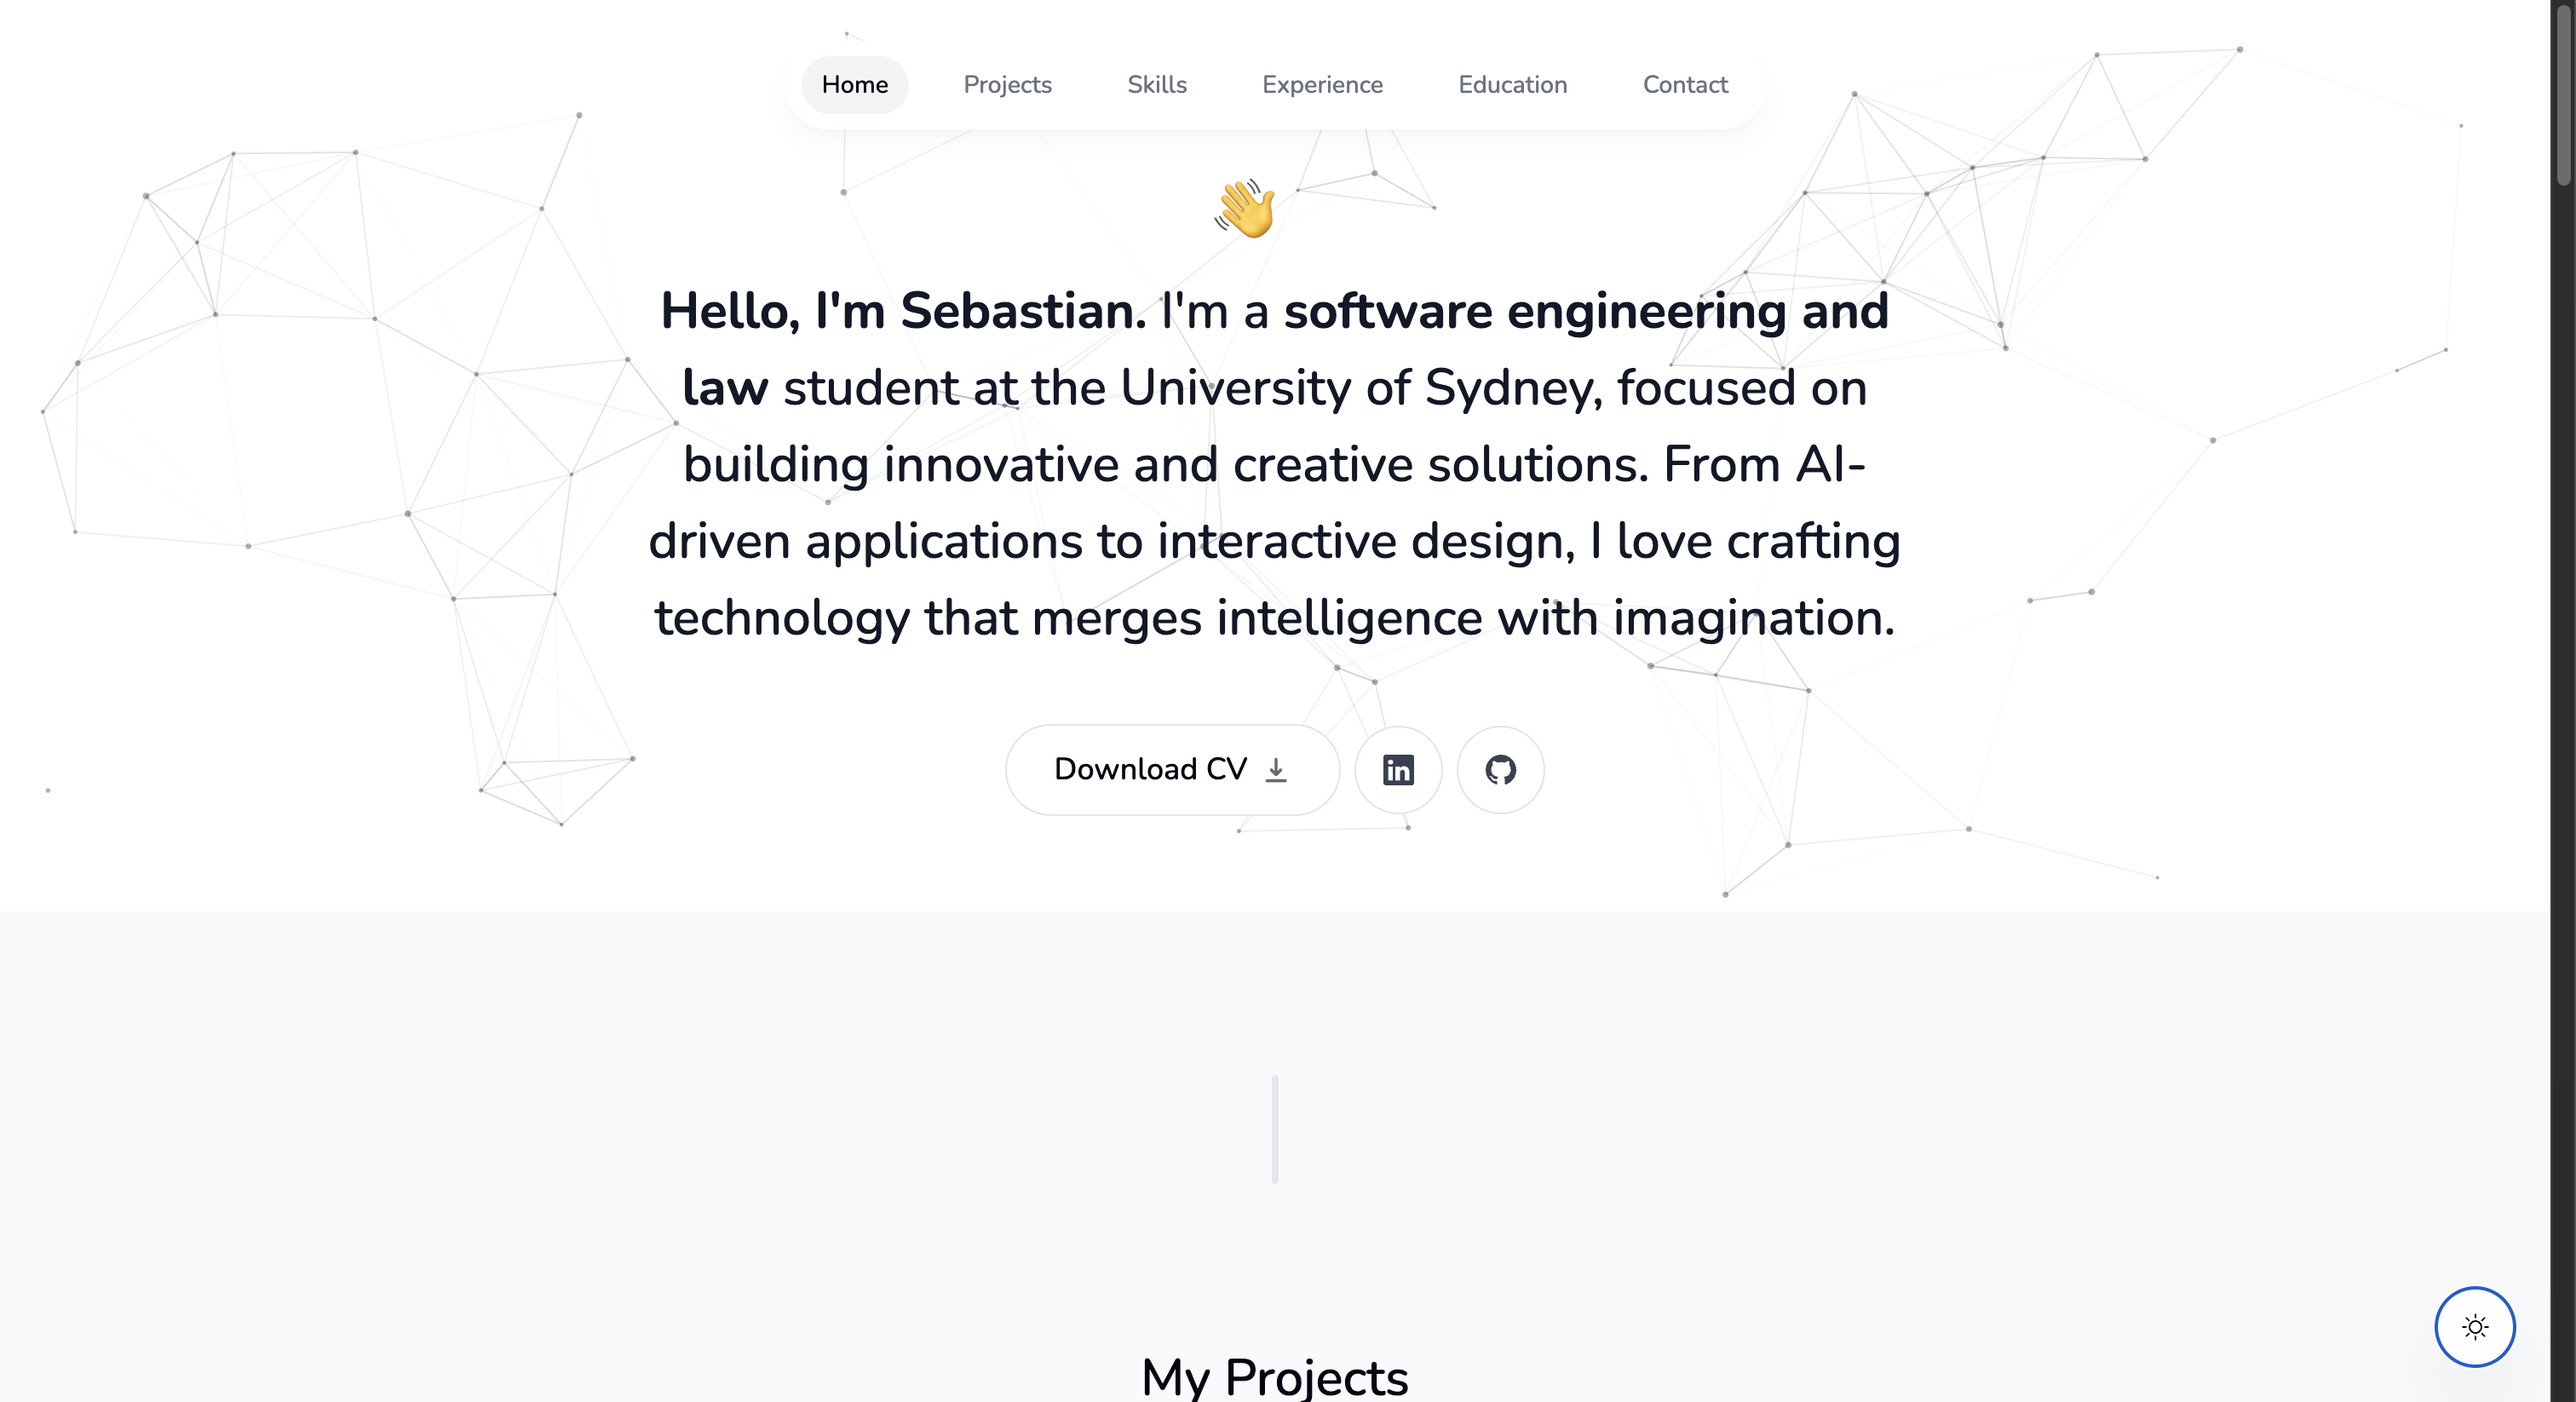
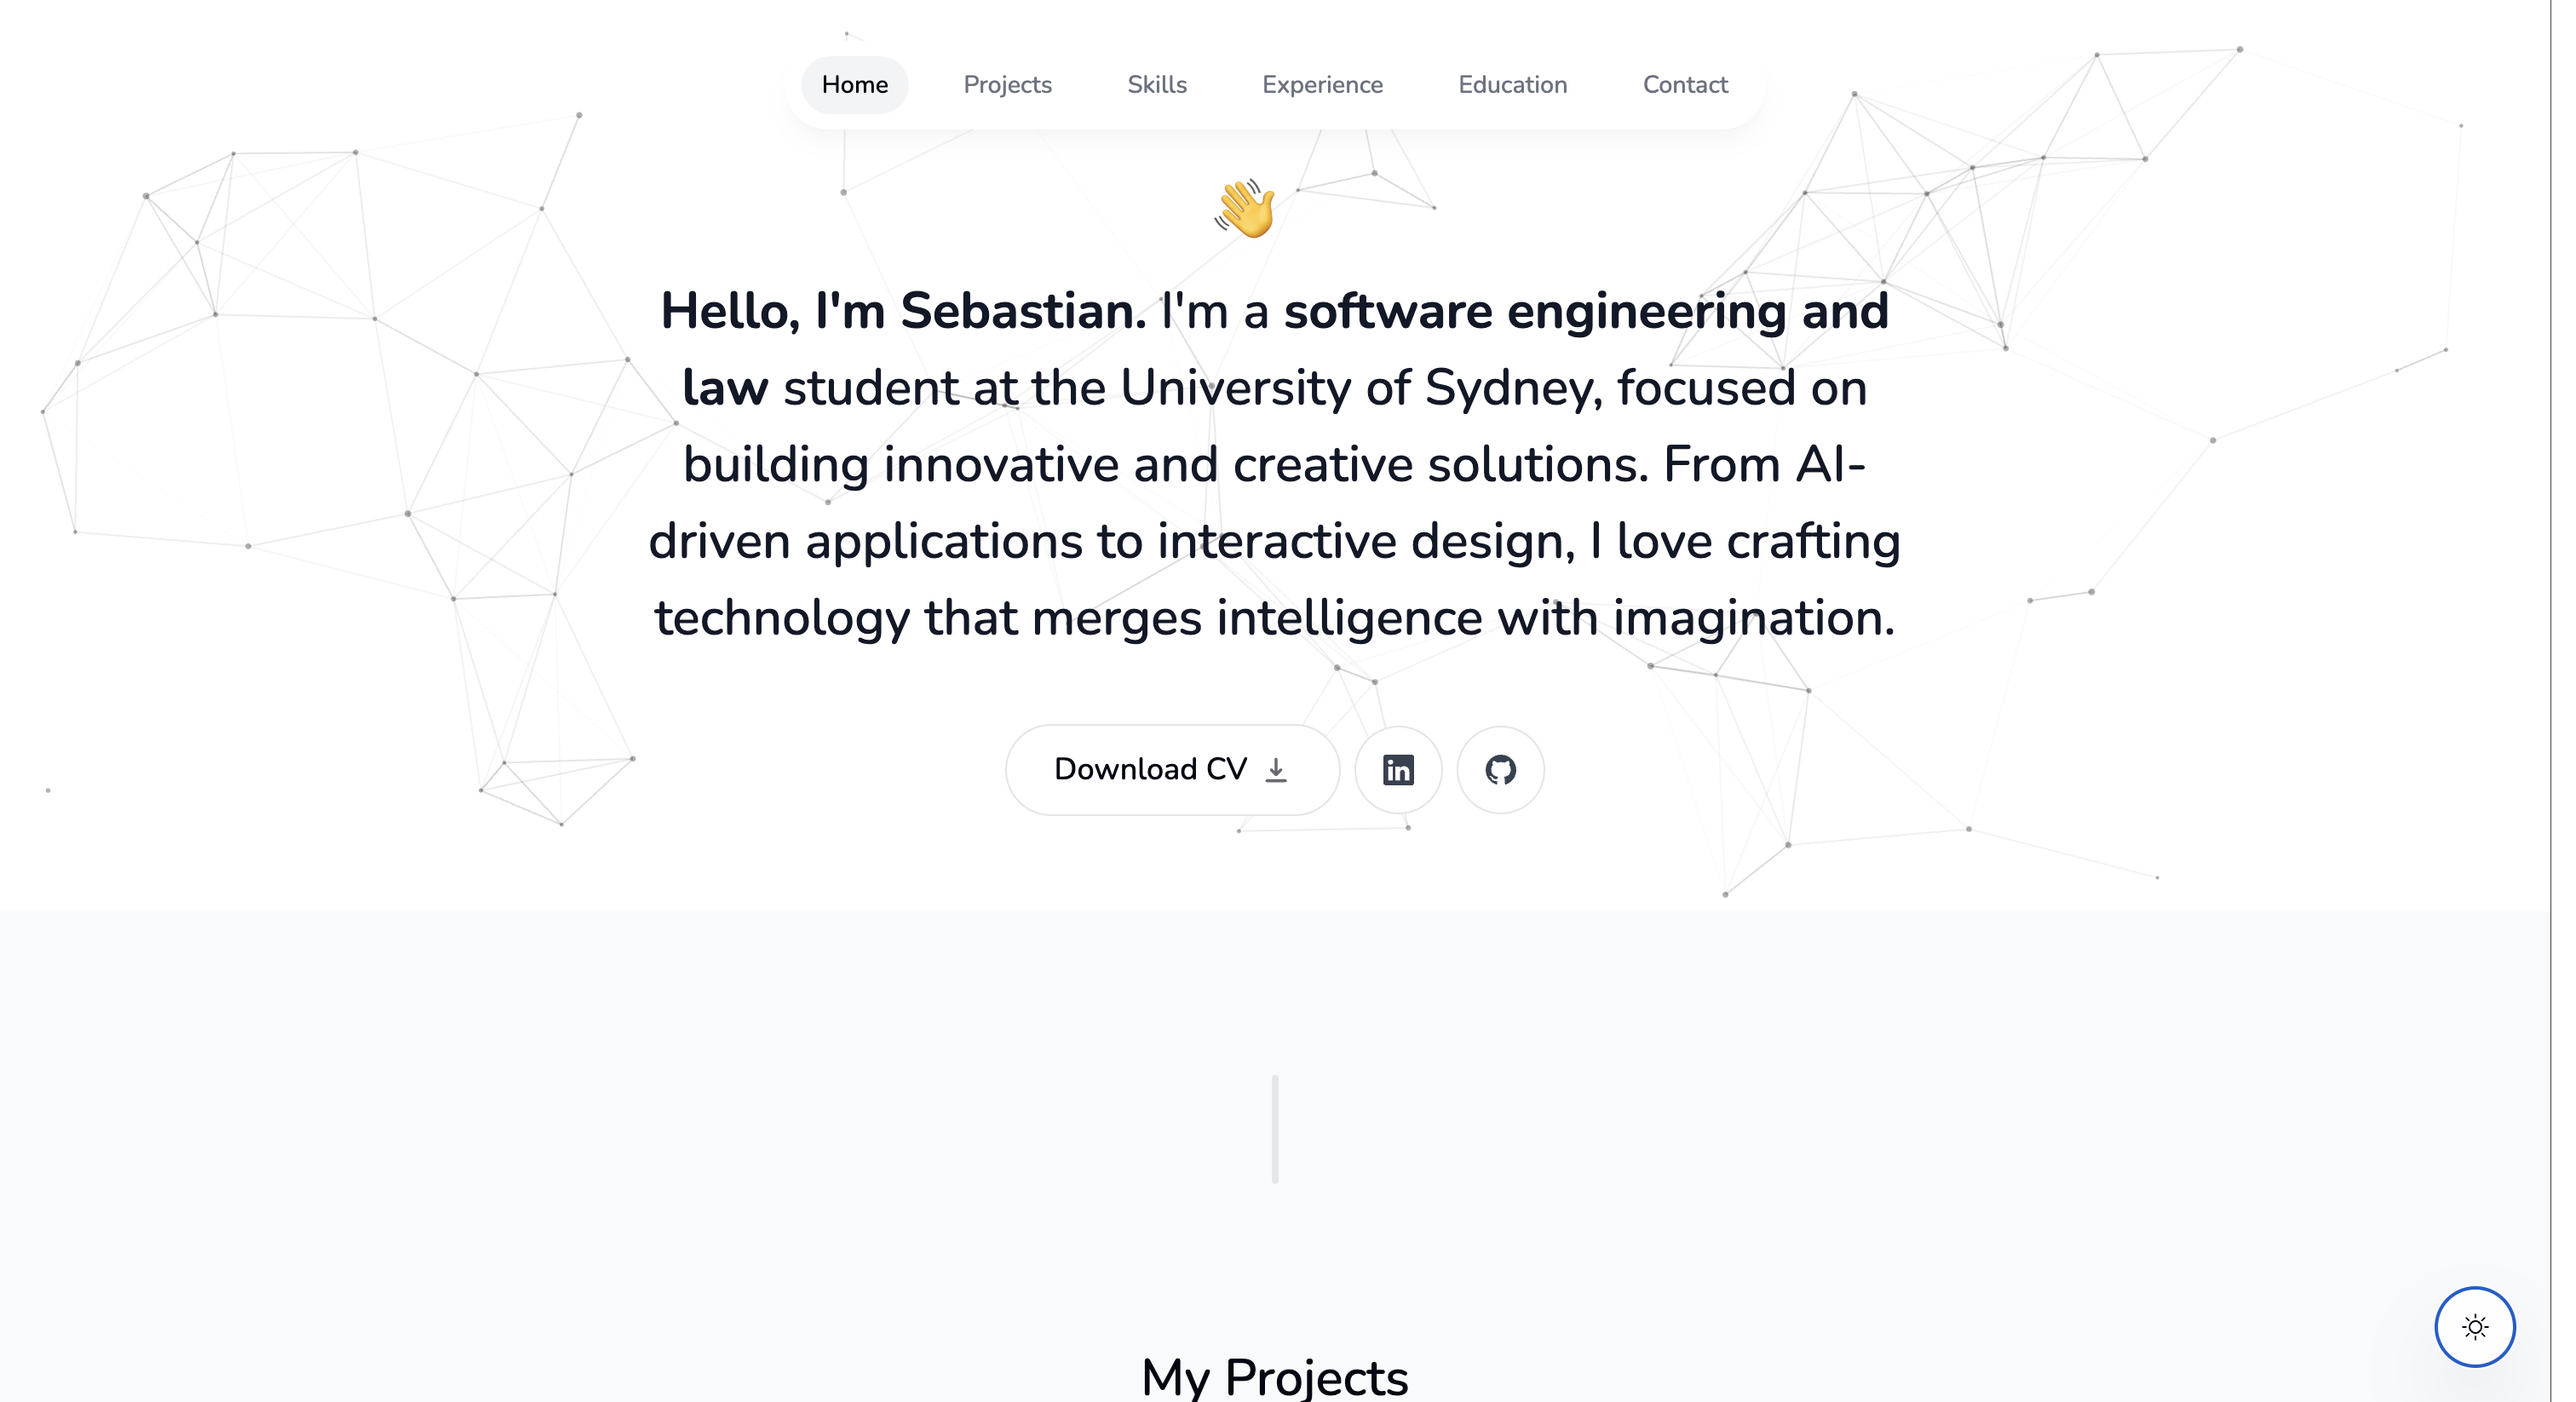
fixed issue with mobile not rendering properly after theme toggle

Changed region(s): [[0.9636, 0.0, 1.0, 1.0]]

diff --git a/context/theme-context.tsx b/context/theme-context.tsx
@@ -30,6 +30,14 @@ export default function ThemeContextProvider({
       window.localStorage.setItem("theme", "light");
       document.documentElement.classList.remove("dark");
     }
+
+    // Force repaint specifically for mobile browsers
+    requestAnimationFrame(() => {
+      // Force repaint on body and all children
+      document.body.style.display = 'none';
+      document.body.offsetHeight;
+      document.body.style.display = '';
+    });
   };
 
   useEffect(() => {

diff --git a/lib/hooks.ts b/lib/hooks.ts
@@ -3,7 +3,7 @@ import { useEffect } from "react";
 import { useInView } from "react-intersection-observer";
 import type { SectionName } from "./types";
 
-export function useSectionInView(sectionName: SectionName, threshold = 0.75) {
+export function useSectionInView(sectionName: SectionName, threshold = 0.5) {
   const { ref, inView } = useInView({
     threshold,
   });
